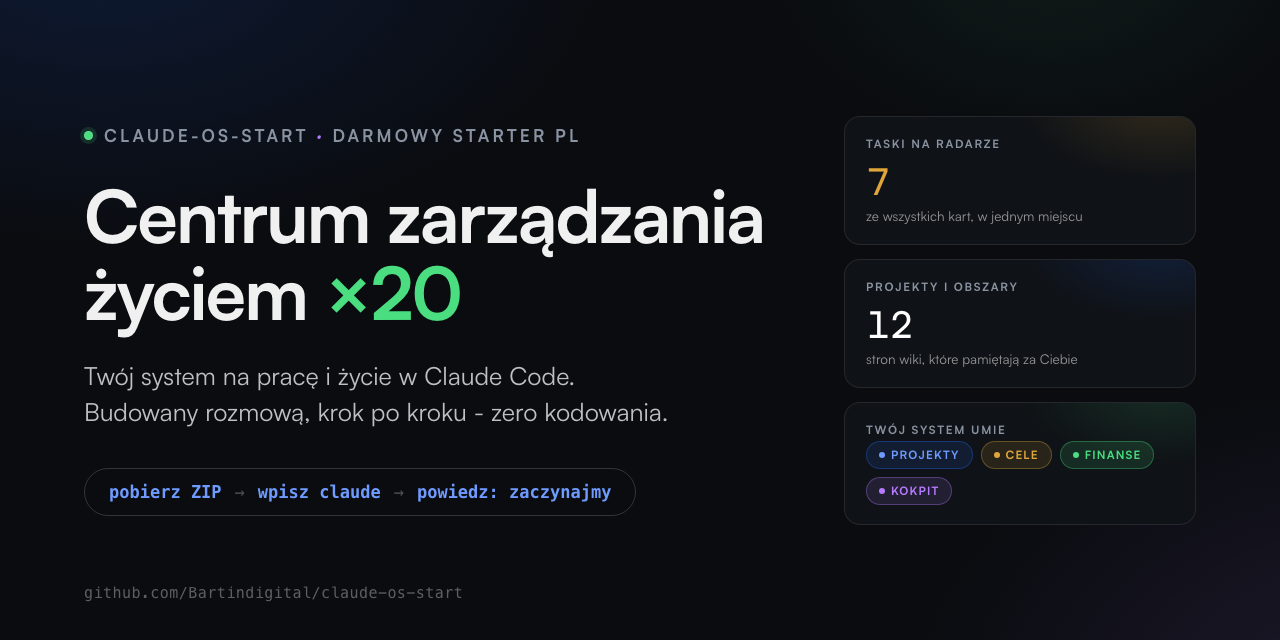
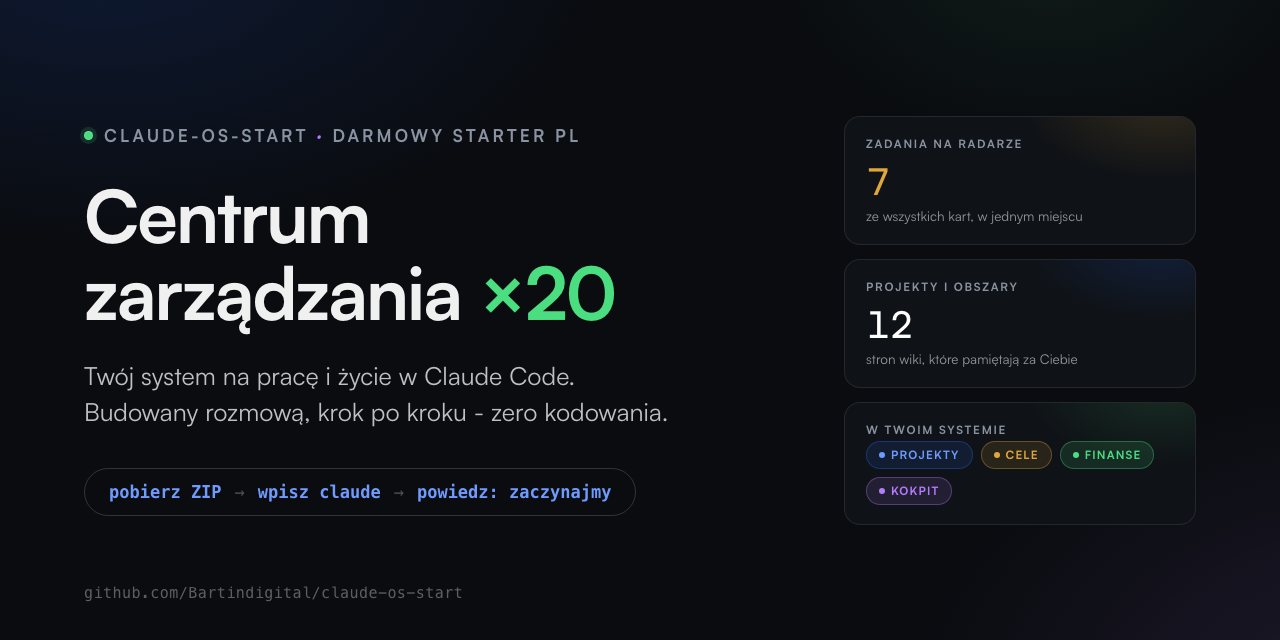
rebrand: Centrum zarzadzania x20 (bez 'zyciem') + poprawki tekstow grafiki social

diff --git a/.claude/skills/onboarding/szablony/kokpit.html b/.claude/skills/onboarding/szablony/kokpit.html
@@ -509,7 +509,7 @@ Przy każdej regeneracji:
       <span>Wygenerowano <code>2026-01-01 09:00</code></span>
       <!-- /SLOT:STOPKA-DATA -->
       <span>To widok, nie źródło prawdy - prawda mieszka w kartach.</span>
-      <span class="foot-brand">Centrum zarządzania życiem ×20</span>
+      <span class="foot-brand">Centrum zarządzania ×20</span>
     </footer>
 
   </div>

diff --git a/README.md b/README.md
@@ -1,6 +1,6 @@
 # Twój system na pracę i życie. Budowany rozmową.
 
-To jest folder-starter, z którego zbudujesz WŁASNY system do ogarniania projektów, celów i codziennych spraw - nie klikając w żadnej aplikacji, tylko rozmawiając z AI. Claude poprowadzi Cię przez onboarding krok po kroku: Ty mówisz, co masz na głowie, a system rośnie razem z Tobą. Na końcu masz własne **centrum zarządzania życiem x20**: jeden widok na projekty, cele i codzienne sprawy - i system, który pamięta za Ciebie (x20, bo działa jak dźwignia: Ty myślisz o jednej rzeczy naraz, a system pilnuje dwudziestu).
+To jest folder-starter, z którego zbudujesz WŁASNY system do ogarniania projektów, celów i codziennych spraw - nie klikając w żadnej aplikacji, tylko rozmawiając z AI. Claude poprowadzi Cię przez onboarding krok po kroku: Ty mówisz, co masz na głowie, a system rośnie razem z Tobą. Na końcu masz własne **centrum zarządzania x20**: jeden widok na projekty, cele i codzienne sprawy - i system, który pamięta za Ciebie (x20, bo działa jak dźwignia: Ty myślisz o jednej rzeczy naraz, a system pilnuje dwudziestu).
 
 ## Dla kogo
 

diff --git a/.claude/skills/onboarding/etapy/etap-5-dashboard-final.md b/.claude/skills/onboarding/etapy/etap-5-dashboard-final.md
@@ -156,8 +156,8 @@ Po zgodzie:
 - CELEBRACJA. Policz konkretne liczby z systemu (strony w `projekty/`, `obszary/`, `cele/`,
   `kontakty/`, `decyzje/`; nieodhaczone taski; wpisy w `log.md`) i powiedz mniej więcej:
   "Zobacz, co zbudowałaś/eś przez ten tydzień: [N] stron wiki, [M] tasków na radarze,
-  [K] wpisów w dzienniku, dashboard i mapę połączeń. To jest Twoje centrum zarządzania
-  życiem - zbudowane Twoimi rękami, ze zwykłych plików, które są w 100% Twoje. Tydzień
+  [K] wpisów w dzienniku, dashboard i mapę połączeń. To jest Twoje centrum zarządzania x20 -
+  zbudowane Twoimi rękami, ze zwykłych plików, które są w 100% Twoje. Tydzień
   temu to był pusty folder. I najważniejsze: od dziś nie ma już lekcji. System działa bez
   skilla - otwierasz folder, wpisujesz `claude` i po prostu mówisz, czego potrzebujesz."
 

diff --git a/.claude/skills/onboarding/etapy/etap-6-kokpit.md b/.claude/skills/onboarding/etapy/etap-6-kokpit.md
@@ -71,7 +71,7 @@ tylko pokazuje, dokąd może urosnąć."
 - Daj chwilę na oglądanie, bez gadania. Potem krótko oprowadź: liczby u góry to jej
   system policzony na dziś, taski można "odhaczać na niby" (przy odświeżeniu wróci stan
   z kart - prawdziwe odhaczanie jest w rozmowie), przyciemnione sekcje to śpiące moduły.
-- Nazwij rzecz: "To jest Twoje centrum zarządzania życiem w wersji wizualnej. Wszystko,
+- Nazwij rzecz: "To jest Twoje centrum zarządzania x20 w wersji wizualnej. Wszystko,
   co tu widzisz, przyszło z Twoich zwykłych plików tekstowych - i to Ty je zbudowałaś/eś
   przez ostatni tydzień."
 
